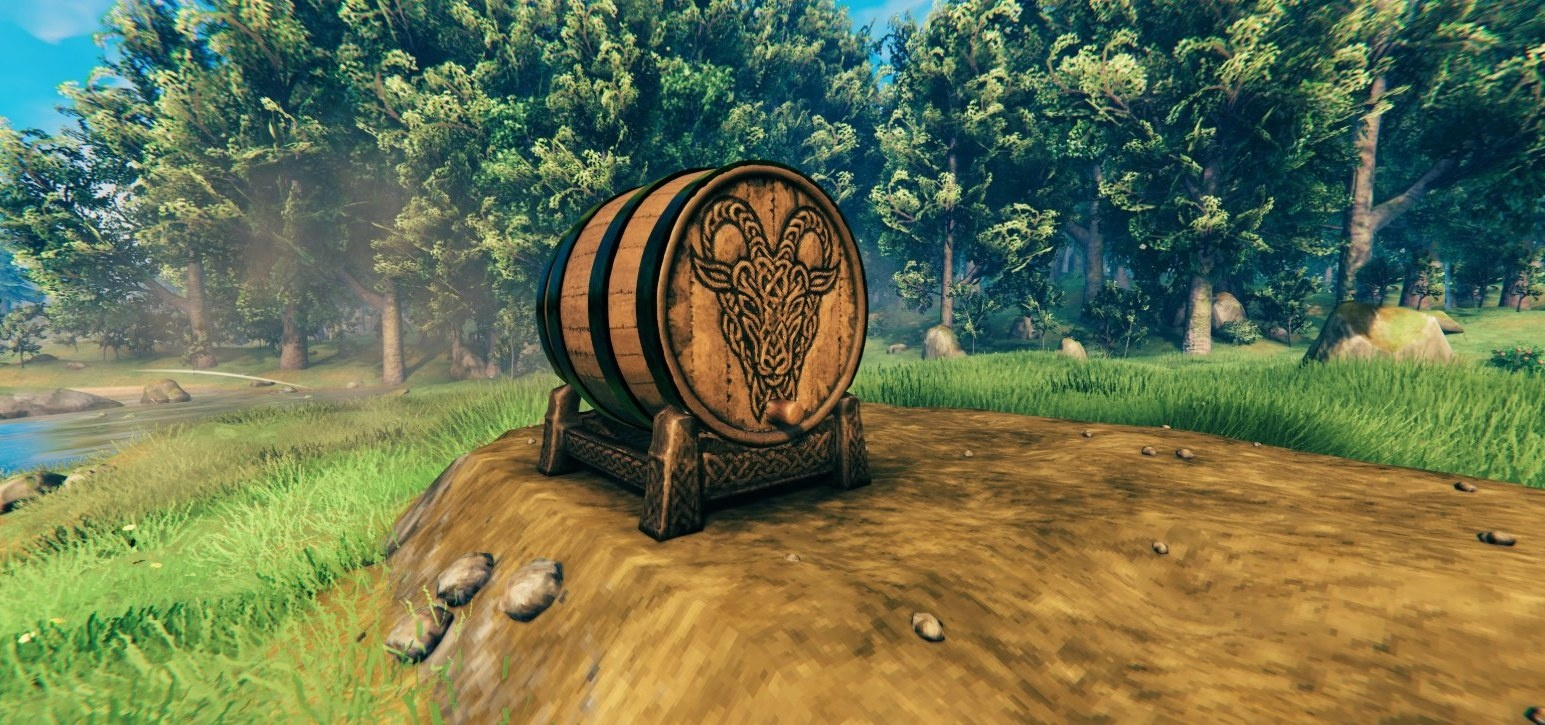
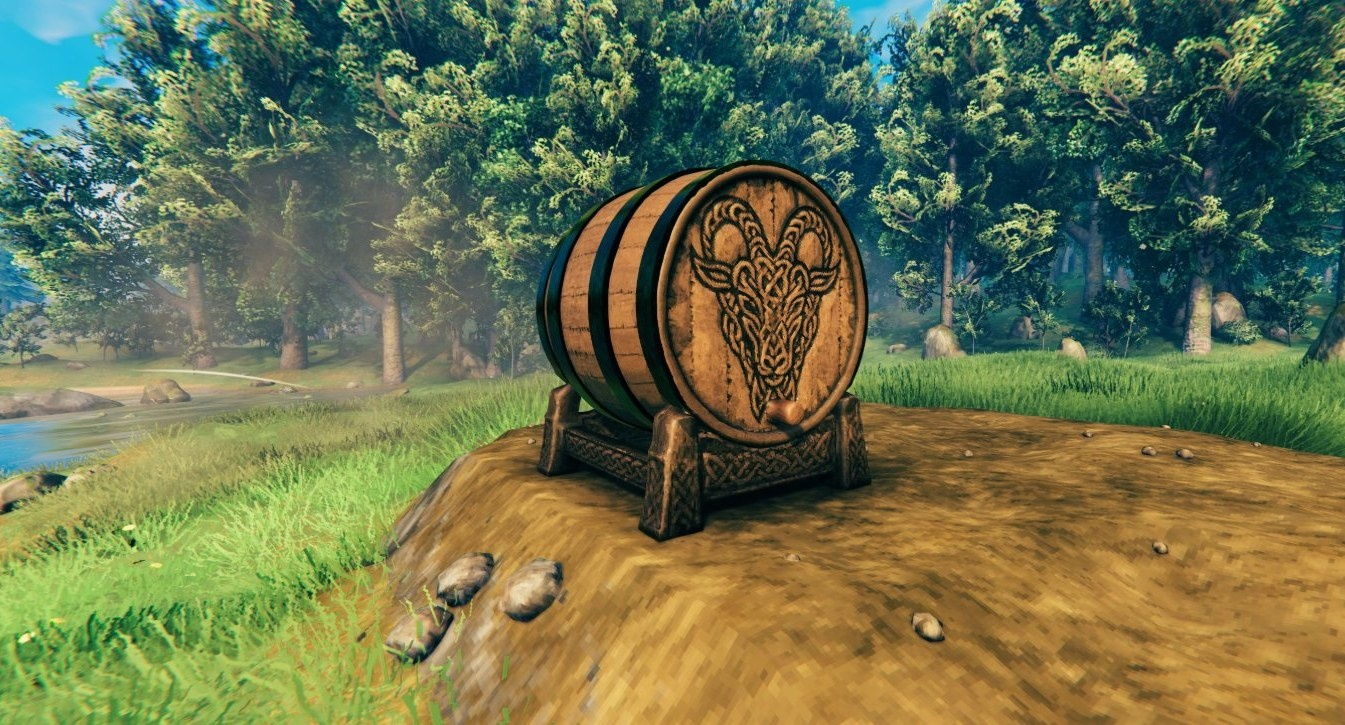
Neck ring: wider search (lox), stop short of the head bone (bear bowing), sit 1.5 cm back; cask shot cropped instead of edited
Claude-Session: https://claude.ai/code/session_01BeBh3b5FhRj8r8TaE5cGNh

diff --git a/src/NeckRing.cs b/src/NeckRing.cs
@@ -27,6 +27,7 @@ namespace PotatoFarmer
         }
 
         private const float Weld = 0.0005f;
+        private const float Back = 0.015f;  // metres further towards the body than the narrowest place
 
         // The body in world space: every visible skinned mesh (only the most detailed level of a LOD group), with
         // vertices that share a place merged, so the outlines join up across UV seams.
@@ -238,7 +239,7 @@ namespace PotatoFarmer
             if (!Body(animal, points, triangles)) return null;
             float length = Vector3.Distance(from, to);
             if (length < 0.001f) return null;
-            float reach = Mathf.Max(animal.GetRadius(), length);
+            float reach = Mathf.Max(animal.GetRadius(), length) * 2f;
             Vector3 up = animal.transform.up;
             Frame(to - from, up, out var a, out var u, out var v);
 
@@ -279,7 +280,8 @@ namespace PotatoFarmer
             var found = new List<KeyValuePair<float, List<Vector2>>>();
             var at = new List<float>();
             float smallest = float.MaxValue;
-            for (int i = 0; i <= 20; i++)
+            // Not right at the head bone: there the cut goes through the skull and jaw (the bear's ring bowed out).
+            for (int i = 0; i <= 17; i++)
             {
                 float t = i / 20f;
                 var ring = Ring(points, triangles, Vector3.Lerp(from, to, t), a, u, v, reach);
@@ -293,12 +295,16 @@ namespace PotatoFarmer
             int pick = 0;
             for (int i = 0; i < found.Count; i++)
                 if (found[i].Key <= smallest * 1.02f) { pick = i; break; }
-            var hull = found[pick].Value;
+            // Then a touch further back towards the body, so it sits on the neck rather than up against the head.
+            float back = Mathf.Max(0f, at[pick] - Back / length);
+            var hull = back < at[pick] ? Ring(points, triangles, Vector3.Lerp(from, to, back), a, u, v, reach) : null;
+            if (hull != null) at[pick] = back;
+            else hull = found[pick].Value;
             var middle = Middle(hull);
             var fit = new Fit
             {
                 At = at[pick],
-                Round = found[pick].Key,
+                Round = Length(hull),
                 A = u,
                 C = v,
                 Center = Vector3.Lerp(from, to, at[pick]) + u * middle.x + v * middle.y,

diff --git a/src/Post.cs b/src/Post.cs
@@ -248,7 +248,7 @@ namespace PotatoFarmer
                 a.Normalize();
                 c = Vector3.Cross(along, a).normalized;
                 rope.Radii = Enumerable.Repeat(Mathf.Clamp(animal.GetRadius() * 0.26f, 0.08f, 0.38f), Bins).ToArray();
-                Plugin.Log.LogInfo($"Hitching post: {Utils.GetPrefabName(animal.gameObject)} body couldn't be read, plain ring.");
+                Plugin.Log.LogInfo($"Hitching post: {Utils.GetPrefabName(animal.gameObject)} no outline found round the {where}, plain ring.");
             }
             rope.LocalCenter = rope.Neck.InverseTransformPoint(center);
             rope.LocalA = rope.Neck.InverseTransformDirection(a);
